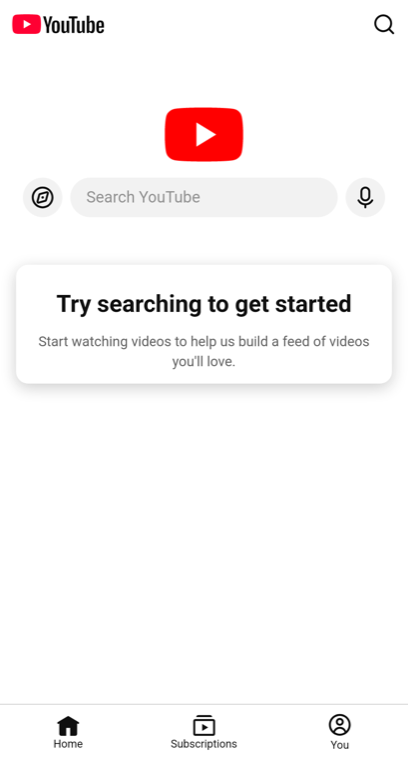
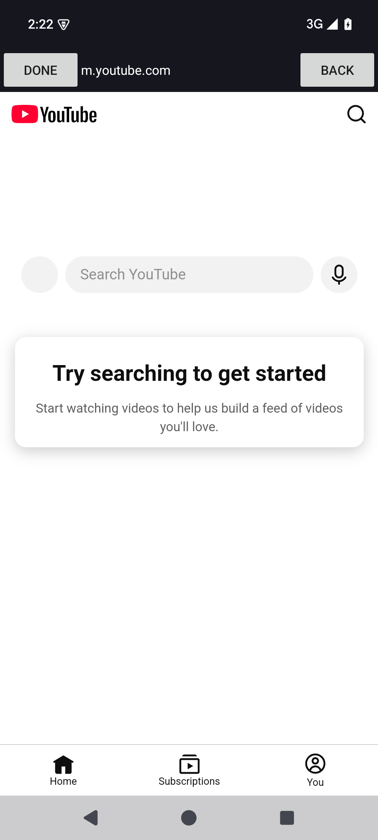
docs: showcase the working Offrally pilot

diff --git a/README.md b/README.md
@@ -2,7 +2,21 @@
 
 A pocket focus club for iOS and Android. Hide Instagram Reels and YouTube Shorts inside a protected browser, run solo focus laps, or challenge a friend to a timed duel.
 
-**Try the clubhouse and live friend duels** at https://offrally.vercel.app. Feed filtering runs inside the installed mobile apps.
+**[Try Offrally on the web](https://offrally.vercel.app)** · **[Download the Android and iOS Simulator pilot builds](https://github.com/shiv-eshwar/offrally/releases/tag/v0.1.0-pilot)**
+
+The web app supports solo laps and friend duels. Feed filtering runs inside the installed mobile apps.
+
+## Offrally in action
+
+| iPhone clubhouse | Instagram feed controls | Live friend duel |
+| :---: | :---: | :---: |
+| <img src="docs/iphone-clubhouse.png" alt="Offrally clubhouse running in iPhone Simulator" width="230"> | <img src="docs/android-feed-controls.png" alt="Instagram feed preferences with Hide Reels enabled on Android" width="230"> | <img src="docs/friend-duel.png" alt="A live one-minute duel on Android with two players and their focus scores" width="230"> |
+
+| Solo lap in progress | YouTube with Shorts hidden |
+| :---: | :---: |
+| <img src="docs/android-focus-lap.png" alt="Offrally's active focus timer counting down on Android" width="230"> | <img src="docs/android-youtube.png" alt="YouTube inside Offrally with Home, Subscriptions and You still visible and the Shorts tab hidden" width="230"> |
+
+Captured from the pilot running on iPhone Simulator and the Android emulator. The duel uses test players connected to the live service.
 
 ## Play with a friend
 
@@ -27,11 +41,3 @@ For Android run `cd android && ./gradlew assembleDebug`. Install the debug APK o
 - [Architecture and data boundaries](architecture.md)
 - [Progress and verification](progress.md)
 - [Mobile builds](https://github.com/shiv-eshwar/offrally/actions/workflows/mobile.yml)
-
-## Screens
-
-| iPhone clubhouse | Friend round |
-| --- | --- |
-| <img src="docs/iphone-clubhouse.png" alt="Clubhouse on the iPhone simulator" width="270"> | <img src="docs/friend-duel.png" alt="Two friends in a live focus duel" width="270"> |
-
-[YouTube after enabling Shorts protection on the Android emulator](docs/android-youtube.png)

diff --git a/progress.md b/progress.md
@@ -18,3 +18,7 @@
 | Build scope | Debug APK and iOS Simulator archive are pilot builds. Physical devices, App Store / Play Store release signing, provider logins and store review are outstanding. |
 
 Final scoring regression passed on the production deployment. Both active players received their remaining eligible seconds when the round closed. A later heartbeat left both final scores unchanged. The production browser smoke check used two independent browser contexts, and the Android and iOS build jobs passed in run 44171562828.
+
+## Public README gallery
+
+Captured the active solo timer and Instagram feed controls from the released Android APK. Opened the live YouTube site in the app and checked that Subscriptions was visible and Shorts was hidden. Captured an active duel once both test players had earned time. The clubhouse image comes from the iPhone Simulator build.
